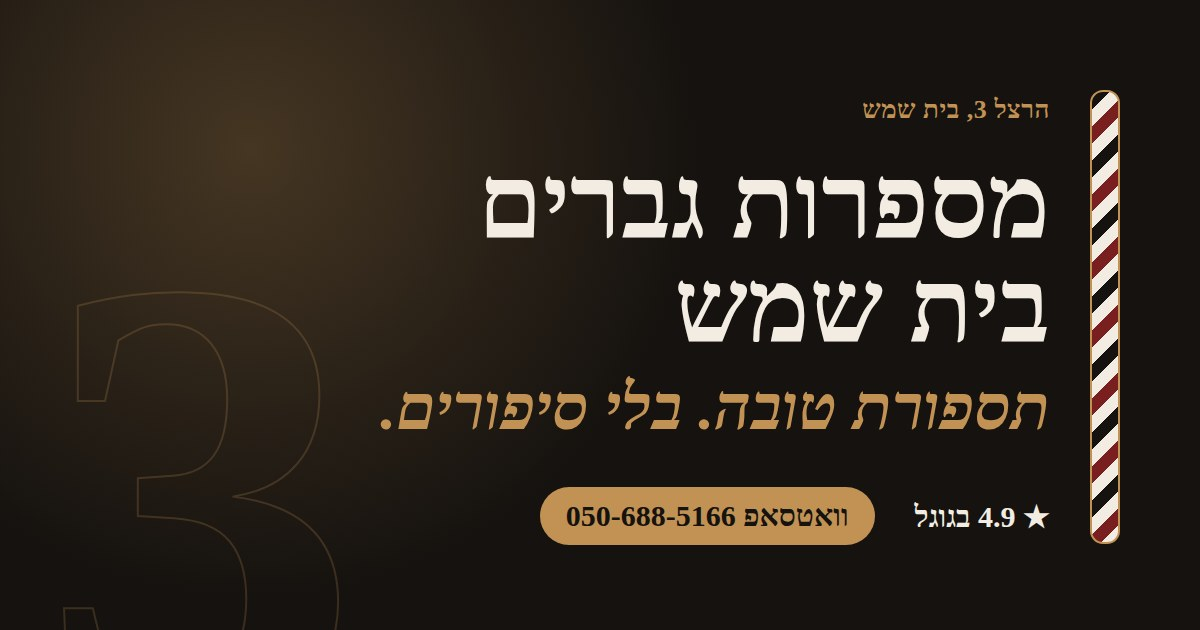
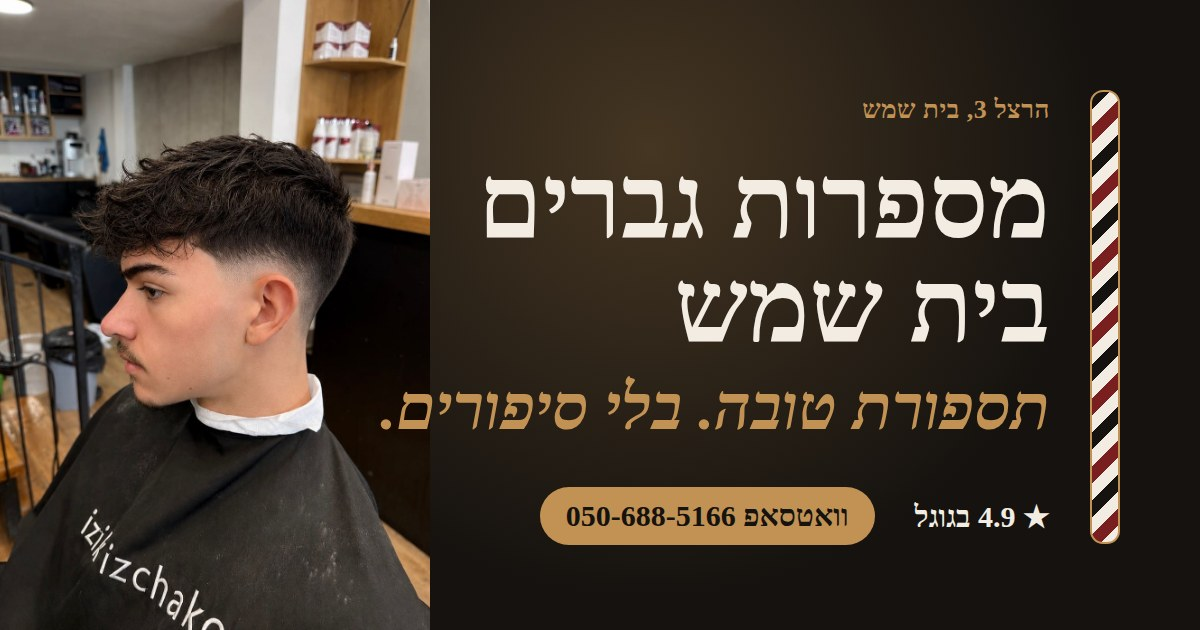
Add the shop's photos
Hero photo plus a 10-photo masonry gallery, resized to 900-1100px and
compressed (65-135 KB each), with Hebrew and English alt text. Cropped
the Instagram UI icons out of two screenshots. The share image now uses
the hero photo.

Claude-Session: https://claude.ai/code/session_013PrRigdDUAYThKsPQbMB6r

diff --git a/src/content/images.ts b/src/content/images.ts
@@ -1,8 +1,10 @@
 /*
- * Photo slots. Drop real photos into /public/images and set `src` (e.g. "/images/hero.jpg").
- * Set `width`/`height` to the photo's real pixel size — the layout keeps each photo's
- * natural aspect ratio (nothing is cropped). Until `src` is set, a placeholder is shown.
+ * Site photos (in /public/images). `width`/`height` are the files' real pixel sizes —
+ * the layout keeps each photo's natural aspect ratio, so nothing is cropped.
+ * A slot with `src: null` shows a placeholder instead.
  */
+
+const BASE = import.meta.env.BASE_URL;
 
 export type SiteImage = {
   src: string | null;
@@ -12,72 +14,31 @@ export type SiteImage = {
 };
 
 export const HERO_IMAGE: SiteImage = {
-  src: null,
-  width: 1000,
-  height: 1300,
+  src: `${BASE}images/hero-fringe-fade.jpg`,
+  width: 1100,
+  height: 1394,
   alt: {
-    he: "איציק מעצב תספורת גברים על כיסא הספרות במספרה בהרצל 3, בית שמש",
-    en: "Itzik styling a men's haircut in the barber chair at 3 Herzl St, Beit Shemesh",
+    he: "תספורת עם פוני ופייד נמוך, על הכיסא במספרה של איציק",
+    en: "Textured fringe with a low fade, in the chair at Itzik's barbershop",
   },
 };
 
-export const BARBER_IMAGE: SiteImage = {
-  src: null,
-  width: 900,
-  height: 1100,
-  alt: {
-    he: "דיוקן של איציק, הספר של מספרות גברים בית שמש, עומד ליד עמדת העבודה שלו",
-    en: "Portrait of Itzik, the barber at Beit Shemesh Men's Barbershop, standing by his station",
-  },
-};
+const img = (name: string, width: number, height: number, he: string, en: string): SiteImage => ({
+  src: `${BASE}images/${name}.jpg`,
+  width,
+  height,
+  alt: { he, en },
+});
 
 export const GALLERY: SiteImage[] = [
-  {
-    src: null,
-    width: 800,
-    height: 1000,
-    alt: { he: "תספורת פייד קצרה עם מעבר חלק בצדדים, מבט מהצד", en: "Short fade haircut with a smooth side blend, side view" },
-  },
-  {
-    src: null,
-    width: 800,
-    height: 800,
-    alt: { he: "זקן מעוצב עם קווי לחיים וצוואר חדים", en: "Shaped beard with crisp cheek and neck lines" },
-  },
-  {
-    src: null,
-    width: 1200,
-    height: 800,
-    alt: { he: "עמדת הספרות במספרה: כיסא עור, מראה ומכונות תספורת", en: "The barber station: leather chair, mirror and clippers" },
-  },
-  {
-    src: null,
-    width: 800,
-    height: 1100,
-    alt: { he: "תספורת קלאסית מסורקת לצד, מבט מקדימה", en: "Classic side-parted haircut, front view" },
-  },
-  {
-    src: null,
-    width: 800,
-    height: 800,
-    alt: { he: "גימור בתער לאורך קו העורף", en: "Straight-razor finish along the neckline" },
-  },
-  {
-    src: null,
-    width: 800,
-    height: 1000,
-    alt: { he: "תספורת ילדים מסודרת עם דירוג רך", en: "Neat kids' haircut with a soft taper" },
-  },
-  {
-    src: null,
-    width: 1200,
-    height: 850,
-    alt: { he: "חזית המספרה ברחוב הרצל 3 במרכז בית שמש", en: "The shopfront at 3 Herzl St in central Beit Shemesh" },
-  },
-  {
-    src: null,
-    width: 800,
-    height: 1050,
-    alt: { he: "טקסטורה קצרה מעוצבת בחלק העליון עם פייד גבוה", en: "Short textured top with a high fade" },
-  },
+  img("fade-beard-line", 900, 1182, "פייד גבוה עם זקן מעוצב וקו חד בלחי", "High fade with a shaped beard and a sharp cheek line"),
+  img("curls-highlights", 900, 1158, "תלתלים עם גוונים, טייפר וזקן קצר", "Curls with highlights, a taper and a short beard"),
+  img("fade-back", 900, 1671, "פייד קצר, מבט מאחור", "Short fade, seen from the back"),
+  img("taper-beard", 900, 1151, "טייפר נמוך עם זקן מסודר", "Low taper with a neat beard"),
+  img("premium-fade-beard", 900, 978, "פייד קצר עם זקן מלא ומעוצב", "Short fade with a full, shaped beard"),
+  img("fringe-high-fade", 900, 1159, "פוני ארוך עם פייד גבוה", "Long fringe with a high fade"),
+  img("curly-fade", 900, 1308, "שיער מתולתל למעלה עם פייד בצדדים", "Curly top with a fade on the sides"),
+  img("crop-high-fade", 900, 1166, "תספורת קצרה עם פייד גבוה וזקן קצר", "Short crop with a high fade and a short beard"),
+  img("taper-beard-side", 900, 1188, "תספורת קצרה עם טייפר וזקן, מבט מהצד", "Short cut with a taper and beard, side view"),
+  img("taper-back-mirror", 900, 1166, "טייפר מאחור, מול המראה במספרה", "Taper from the back, in front of the shop mirror"),
 ];

diff --git a/src/components/site/Hero.tsx b/src/components/site/Hero.tsx
@@ -119,7 +119,7 @@ const Hero = () => {
         </div>
 
         {/* Visual: arched photo frame with layered depth. */}
-        <div className="relative mx-auto w-full max-w-[26rem] lg:col-span-5 lg:max-w-none">
+        <div className="relative mx-auto w-full max-w-[26rem] lg:col-span-5 lg:max-w-[24rem]">
           <div aria-hidden="true" className="absolute inset-0 translate-x-4 translate-y-4 rtl:-translate-x-4">
             <motion.div
               initial={reduce ? false : { opacity: 0, scale: 0.94 }}
